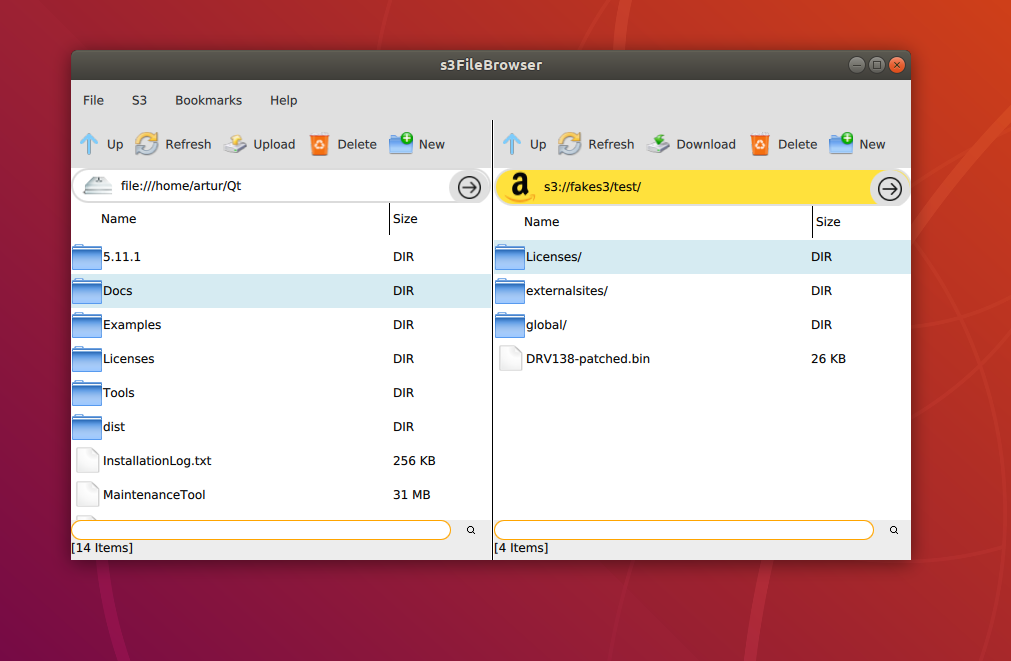
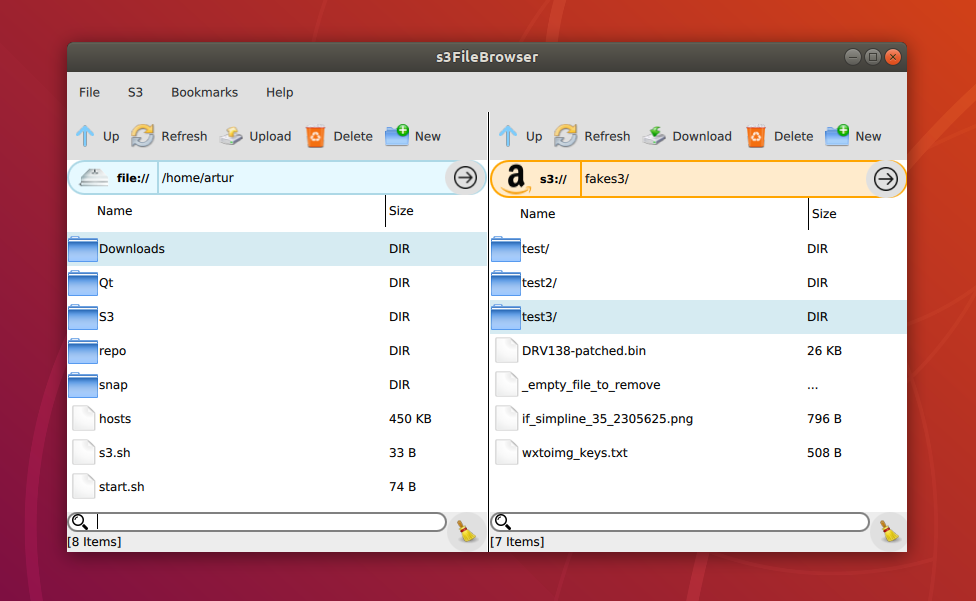
General UI fixes

diff --git a/qml/ManageBookmarksWindow.qml b/qml/ManageBookmarksWindow.qml
@@ -15,9 +15,9 @@
 # You should have received a copy of the GNU General Public License
 # along with qtS3Browser.  If not, see <http://www.gnu.org/licenses/>.
 */
-import QtQuick 2.9
-import QtQuick.Window 2.3
-import QtQuick.Controls 2.4
+import QtQuick 2.5
+import QtQuick.Window 2.0
+import QtQuick.Controls 2.3
 import QtGraphicalEffects 1.0
 Window {
     id: about_win
@@ -38,39 +38,39 @@ import QtQuick 2.5;
 import QtQuick.Controls 2.2;
 
 Column {
-
+ width: parent.width;
  Row {
+  width: parent.width;
   id: bookmarks_item
   x: 10
   Image {
-      source: "qrc:icons/32_bookmark.png"
- }
+    source: "qrc:icons/32_bookmark.png"
+  }
 
- Rectangle {
-   width: 10
-   height: 10
- }
+  Rectangle {
+    width: 10
+    height: 10
+  }
 
- Column {
-   width: 230;
+  Column {
+    width: parent.width - 160;
+    Text {
+      font.pointSize: 14
+      text: "' + keys[i] +'"
+     }
 
-   Text {
-     font.pointSize: 14
-     text: "' + keys[i] +'"
-   }
+     Text {
+       font.pointSize: 8
+       text: \'<a href="' + values[i] +'">' + values[i] + '</a>\'
+     }
+  }
 
-   Text {
-     font.pointSize: 8
-     text: \'<a href="' + values[i] +'">' + values[i] + '</a>\'
-   }
- }
-
- Button {
-  text: "Remove";
-  icon.source: "qrc:icons/32_delete_icon.png"
-  icon.color: "transparent"
-  onClicked: { s3Model.removeBookmarkQML("' + keys[i] + '") }
- }
+  Button {
+    text: "Remove";
+    icon.source: "qrc:icons/32_delete_icon.png"
+    icon.color: "transparent"
+    onClicked: { s3Model.removeBookmarkQML("' + keys[i] + '") }
+  }
 }
 
 Rectangle {
@@ -188,6 +188,7 @@ onClicked: { createBookmarkWindow.visible = true; close() } }
             Column {
                 y: 10
                 id: bookmarks_list
+                width: parent.width
                 Component.onCompleted: addBookmarks()
             }
         }

diff --git a/qml/S3Browser.qml b/qml/S3Browser.qml
@@ -199,12 +199,11 @@ Item {
                         height: parent.height
                         icon.source: "qrc:icons/32_go_icon.png"
                         icon.color: "transparent"
-                        //flat: true
                         onClicked: {
-                            if(s3_browser_path_text.text === "s3://") {
+                            if(s3_browser_path_text.text === "") {
                                 s3Model.getBucketsQML()
-                            } else if(s3_browser_path_text.text.indexOf("s3://") >= 0) {
-                                s3Model.gotoQML(s3_browser_path_text.text)
+                            } else {
+                                s3Model.gotoQML("s3://" + s3_browser_path_text.text)
                             }
                             s3_panel.connected = s3Model.isConnectedQML()
                             file_panel.connected = s3Model.isConnectedQML()
@@ -287,6 +286,7 @@ Item {
                                 id: s3_search_txt
                                 x:30
                                 text: ""
+                                selectByMouse: true
                                 width: parent.width
                                 anchors.verticalCenter: parent.verticalCenter
 

diff --git a/qml/FileBrowser.qml b/qml/FileBrowser.qml
@@ -214,7 +214,7 @@ Item {
                         icon.source: "qrc:icons/32_go_icon.png"
                         icon.color: "transparent"
                         onClicked: {
-                            path = file_browser_path_text.text
+                            path = "file://" + file_browser_path_text.text
                         }
                     }
                 }
@@ -293,6 +293,7 @@ Item {
                                 id: file_search_txt
                                 x:30
                                 text: ""
+                                selectByMouse: true
                                 width: parent.width
                                 anchors.verticalCenter: parent.verticalCenter
                                 onTextChanged: {

diff --git a/qml/CreateItemWindow.qml b/qml/CreateItemWindow.qml
@@ -15,12 +15,13 @@
 # You should have received a copy of the GNU General Public License
 # along with qtS3Browser.  If not, see <http://www.gnu.org/licenses/>.
 */
-import QtQuick 2.6
-import QtQuick.Window 2.3
-import QtQml.Models 2.3
-import QtQuick.Controls 2.4
-import QtQuick.Layouts 1.3
+import QtQuick 2.5
+import QtQuick.Window 2.1
+import QtQml.Models 2.1
+import QtQuick.Controls 2.1
+import QtQuick.Layouts 1.1
 import QtGraphicalEffects 1.0
+
 Window {
     id: create_item_win
     x: app_window.x

diff --git a/qml/CreateBookmarkWindow.qml b/qml/CreateBookmarkWindow.qml
@@ -15,11 +15,11 @@
 # You should have received a copy of the GNU General Public License
 # along with qtS3Browser.  If not, see <http://www.gnu.org/licenses/>.
 */
-import QtQuick 2.9
-import QtQuick.Window 2.3
-import QtQml.Models 2.3
-import QtQuick.Controls 2.4
-import QtQuick.Layouts 1.3
+import QtQuick 2.5
+import QtQuick.Window 2.1
+import QtQml.Models 2.1
+import QtQuick.Controls 2.0
+import QtQuick.Layouts 1.0
 import QtGraphicalEffects 1.0
 Window {
     id: create_bookmark_win

diff --git a/qml/SettingsWindow.qml b/qml/SettingsWindow.qml
@@ -15,11 +15,11 @@
 # You should have received a copy of the GNU General Public License
 # along with qtS3Browser.  If not, see <http://www.gnu.org/licenses/>.
 */
-import QtQuick 2.7
-import QtQuick.Window 2.3
-import QtQml.Models 2.3
-import QtQuick.Controls 2.4
-import QtQuick.Layouts 1.3
+import QtQuick 2.5
+import QtQuick.Window 2.1
+import QtQml.Models 2.1
+import QtQuick.Controls 2.1
+import QtQuick.Layouts 1.1
 import QtGraphicalEffects 1.0
 Window {
     id: settings_win

diff --git a/qml/S3ObjectDelegate.qml b/qml/S3ObjectDelegate.qml
@@ -101,6 +101,12 @@ Rectangle {
     Menu {
         id: contextMenu
         MenuItem {
+            icon.source: "qrc:icons/32_about_icon.png"
+            icon.color: "transparent"
+            enabled: connected
+            text: qsTr('Info')
+        }
+        MenuItem {
             icon.source: "qrc:icons/32_download_icon.png"
             icon.color: "transparent"
             enabled: connected

diff --git a/qml/FileDelegate.qml b/qml/FileDelegate.qml
@@ -73,6 +73,11 @@ Rectangle {
     Menu {
         id: contextMenu
         MenuItem {
+            icon.source: "qrc:icons/32_about_icon.png"
+            icon.color: "transparent"
+            text: qsTr('Info')
+        }
+        MenuItem {
             icon.source: "qrc:icons/32_upload_icon.png"
             icon.color: "transparent"
             enabled: connected

diff --git a/qml/AboutWindow.qml b/qml/AboutWindow.qml
@@ -15,8 +15,8 @@
 # You should have received a copy of the GNU General Public License
 # along with qtS3Browser.  If not, see <http://www.gnu.org/licenses/>.
 */
-import QtQuick 2.6
-import QtQuick.Window 2.3
+import QtQuick 2.5
+import QtQuick.Window 2.0
 import QtGraphicalEffects 1.0
 
 Window {

diff --git a/src/s3model.cpp b/src/s3model.cpp
@@ -176,7 +176,7 @@ QString S3Model::getPathWithoutBucket() const
 }
 // --------------------------------------------------------------------------
 QString S3Model::s3Path() const {
-    QString path = QString("s3://").append(getCurrentBucket());
+    QString path = getCurrentBucket();
     if(m_s3Path.count() >= 1) {
         path = path.append("/").append(getPathWithoutBucket());
     }
